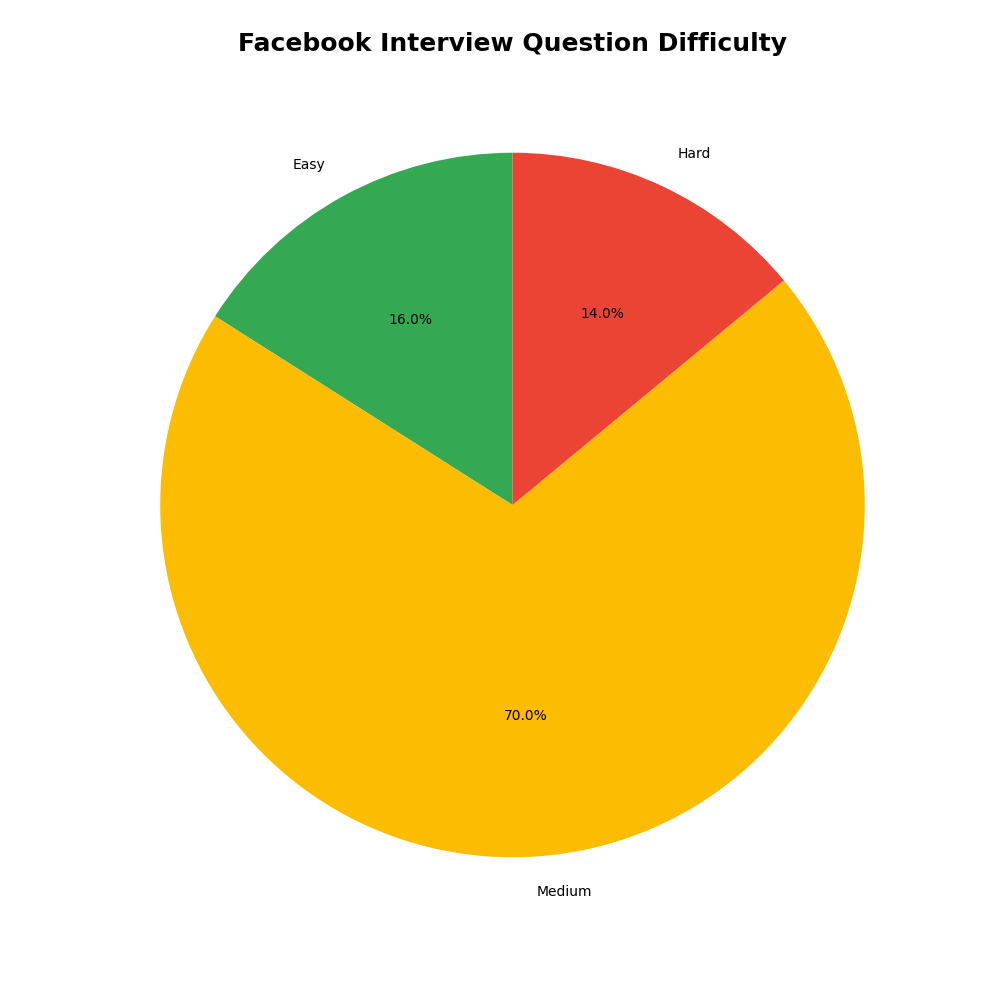
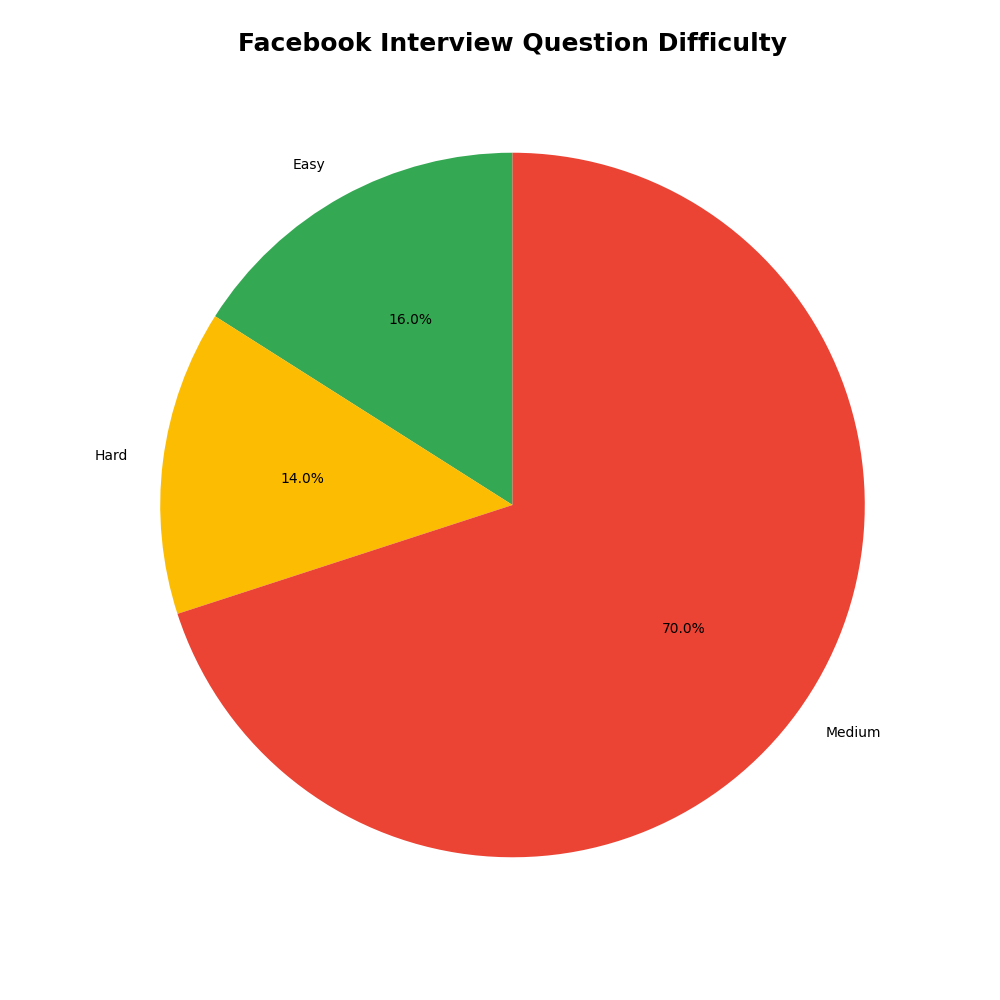
yaml format complete

diff --git a/script.py b/script.py
@@ -1,49 +1,40 @@
 import pandas as pd
 import matplotlib.pyplot as plt
 import numpy as np
+import re
 import yaml as yaml
 import openai
 from dotenv import dotenv_values
+from unicodedata import normalize
 import os
 from openai import OpenAI
 
-company = "Facebook"
-excelfile = f"./excel sheets/{company}_questions.xlsx"
+# yaml config
+def load_config(config_path):
+    with open(config_path, 'r') as file:
+        config = yaml.safe_load(file)
+    return config
+
+def replace_placeholders(config, placeholders):
+    config_str = yaml.dump(config)
+    for key, value in placeholders.items():
+        config_str = re.sub(r'\$\{' + key + r'\}', value, config_str)
+    return yaml.safe_load(config_str)
+
+config_path = './config.yaml'  # Update this path as needed
+yaml_config = load_config(config_path)
+
+placeholders = {'company': yaml_config['company']}
+
+yaml_config = replace_placeholders(yaml_config, placeholders)
+
+company = yaml_config["company"]
+excelfile = yaml_config["directories"]["excel_file"]
+
 df = pd.read_excel(excelfile)
 
-patterns = {
-    "Dynamic Programming": 0,
-    "Depth-First Search": 0,
-    "Breadth-First Search": 0,
-    "Two Pointers": 0,
-    "Trie": 0,
-    "Tree": 0,
-    "Simulation": 0,
-    "Design": 0,
-    "Greedy": 0,
-    "Graph": 0,
-    "Bit Manipulation": 0,
-    "Math": 0,
-    "Matrix": 0,
-    "Heap": 0,
-    "Stack": 0,
-    "Backtracking": 0,
-    "Binary Search": 0,
-    "Sliding Window": 0,
-    "Basic Programming": 0,
-    "Hash Function": 0,
-    "Linked List": 0,
-    "Database": 0,
-    "Union Find": 0,
-    "Adv. Data Structure": 0,
-    "Recursion": 0,
-    "Divide and Conquer": 0,
-}   
-difficulty = {
-    "Easy": 0,
-    "Medium": 0,
-    "Hard": 0,
-}
+patterns = yaml_config["patterns"]
+difficulty = yaml_config["difficulty"]
 
 # topics that are mutually exclusive with "basic programming" pattern
 not_basics = ["Dynamic Programming", "Depth-First Search", "Breadth-First Search", "Trie", "Simulation", "Graph", "Recursion"]
@@ -73,7 +64,7 @@ def generate_charts():
             angle = np.rad2deg(np.arctan2(y, x))
             horizontalalignment = {-1: "right", 1: "left"}[int(np.sign(x))]
             connectionstyle = f"angle,angleA=0,angleB={angle}"
-            ax.annotate(text, xy=(x, y), xytext=(1.25*np.sign(x), 1.2*y),
+            ax.annotate(text, xy=(x, y), xytext=(1.2*np.sign(x), 1.2*y),
                         horizontalalignment=horizontalalignment,
                         arrowprops=dict(arrowstyle="-", connectionstyle=connectionstyle),
                         )
@@ -97,20 +88,20 @@ def generate_charts():
 
         # Title and show
         chartname = f"{company} Interview Pattern Distribution"
-        filename = f"./charts/{company}_pattern_chart.png"
+        filename = yaml_config["directories"]["pattern_chart"]
 
         plt.title(chartname, weight="bold", fontsize=18, pad=50)
         plt.savefig(filename)
 
     def plot_difficulty(difficulty):
-        colors = ['#34a853', '#fbbc02', '#eb4334']
+        colors = ['#34a853','#eb4334', '#fbbc02']
 
         fig, ax = plt.subplots(figsize=(10, 10))
         ax.pie(difficulty.values(), labels=difficulty.keys(), autopct='%1.1f%%', startangle=90, colors=colors)
         ax.axis('equal')  # Equal aspect ratio ensures that pie is drawn as a circle.
 
         chartname = f"{company} Interview Question Difficulty"
-        filename = f"./charts/{company}_difficulty_chart.png"
+        filename = yaml_config["directories"]["difficulty_chart"]
 
         plt.title(chartname, weight="bold", fontsize=18, pad=50)
         plt.savefig(filename)
@@ -119,7 +110,7 @@ def generate_charts():
     for index, row in df.iterrows():
         patterns_string = str(row.iloc[2])
         difficulty_string = str(row.iloc[4])
-        problem_id = str(row.iloc[0])
+        problem_id = int(row.iloc[0])
 
         idlist.append(problem_id)
 
@@ -155,33 +146,56 @@ def generate_charts():
 def main():
     generate_charts()
 
-    #config
+    #OpenAI config
     client = OpenAI()
     config = dotenv_values(".env")
     client.api_key = config["OPENAI_API_KEY"]
 
     new_patterns = {k: v for k, v in patterns.items() if v > 0}
+    res = ""
 
-    # roles: system, user, assistant
-    # system - sets the behavior of the assistant
-    # user - provides requests or comments for the assistant to respond to
-    # assistant - stores previous assistant responses
+    data = {
+        "title": f"{company} Interview Patterns",
+        "questions": idlist,
+        "pattern": {
+            "pattern_chart": "",
+            "difficulty_chart": "",
+            "summary": (
+                ""
+            ),
+        }
+    }
+
+    # prompt
     messages = [
-        {"role": "system", "content": "You need to write a technical interview guide for a specific company. The position is for software engineering and the problems are leetcode-style coding challenges with patterns like dfs/bfs, two pointers, dynamic programming, etc. user provdes the pattern distribution data and you need to write 1-3 paragraphs about the trends and difficulty level (briefly) and how to prepare by identifying common patterns and listing some leetcode problems. do not output the distribution data. output in yaml format ready to be exported. provide good examples of questions and hyperlink them in lists, pipe symbol to separate paragraphs."},
-        {"role": "user", "content": f"please write a technical interview guide for {company}. here is the pattern distrbution for the interview: {str(new_patterns)}. do not mention the problem frequency counts."}
+        {"role": "system", "content": "You need to write a technical interview guide for a specific company. The position is for software engineering and the problems are leetcode-style coding challenges with patterns like dfs/bfs, two pointers, dynamic programming, etc. user provdes the pattern distribution data and you need to write 1-3 paragraphs about the trends and briefly the difficulty level, and how to prepare by identifying common patterns and listing some leetcode problems. do not output the distribution data."},
+        {"role": "user", "content": f"please write a technical interview guide for {company}. here is the pattern distrbution for the interview: {str(new_patterns)}. do not mention the problem frequency counts. provide 2-3 paragraphs each separated by two newlines. provde problem list hyperlinked separated by newlines after the paragraphs. hyper links should be like this: '- [Minimum Number of Keypresses (Sorting + Greedy)](https://algo.monster/liteproblems/2268)\\n' where the link is to algo.monster/liteproblems followed by leetcode problem ID number. the returned response should just be first paragraph\\n\\nsecondparagraph\\n\\n- [list item1](https://)\\n- [list item2](https://)\\n). "}
     ]
-
     completion = client.chat.completions.create(
         model="gpt-4",
         max_tokens=2048,
         messages=messages
     )
+    res = completion.choices[0].message.content
+    res.replace(":", "")
+    res.replace('\\n', '\n')
+    res = re.sub(r'[ \t]+\n', '\n', res)
+    
+    data["pattern"]["summary"] = res
 
-    print(completion.choices[0].message.content)
+    # Custom representer to format the output into desired yaml
+    def str_presenter(dumper, data):
+        if '\n' in data:
+            return dumper.represent_scalar('tag:yaml.org,2002:str', data, style='|')
+        return dumper.represent_scalar('tag:yaml.org,2002:str', data)
+    def sequence_presenter(dumper, data):
+        return dumper.represent_sequence('tag:yaml.org,2002:seq', data, flow_style=True)
 
-    file_path = 'interview_preparation_guide.yaml'
-    with open(file_path, 'w') as file:
-        file.write(completion.choices[0].message.content.strip())
+    yaml.add_representer(str, str_presenter, Dumper=yaml.SafeDumper)
+    yaml.add_representer(list, sequence_presenter, Dumper=yaml.SafeDumper)
+
+    # Write the data to a YAML file
+    with open(f"{company}.yaml", "w") as file:
+        yaml.dump(data, file, default_flow_style=False, sort_keys=False, Dumper=yaml.SafeDumper, width=4096)
 
 main()
-

diff --git a/test.py b/test.py
@@ -1,0 +1,34 @@
+import pandas as pd
+import matplotlib.pyplot as plt
+import numpy as np
+import re
+import yaml as yaml
+import openai
+from dotenv import dotenv_values
+import os
+from openai import OpenAI
+
+data = {
+    "pattern": {
+        "pattern_chart": "",
+        "difficulty_chart": "",
+        "summary": (
+        ),
+    }
+}
+data["pattern"]["summary"] = "The Snowflake technical interview process leans heavily on data structures and algorithms, with a particular emphasis on dynamic programming, breadth-first and depth-first searches. The problems tend to be moderately challenging, with a fair mixture of intermediate to more advanced problems. Many of these problems would fall into the Leetcode medium to hard categories. It's also worth noting that many of the problems seem to involve graphs and trees, which suggests that applicants need to be comfortable with solving real-world problems involving these structures.\n\nIn preparing for the technical interview, it's crucial to understand and recognize common coding patterns such as backtracking, binary search, design patterns, graph theory, and basic math problems. Remember, the majority of these problems are not 'trick' problems - they're meant to assess your problem-solving skills, your understanding of algorithms and data structures, and your ability to write clean, efficient code. Therefore, practicing is essential. Leetcode has a large set of problems you can use for practice, and recognizing patterns in these problems will greatly benefit you in the technical interview."
+def str_presenter(dumper, data):
+    if '\n' in data:
+        return dumper.represent_scalar('tag:yaml.org,2002:str', data, style='|')
+    return dumper.represent_scalar('tag:yaml.org,2002:str', data)
+
+def sequence_presenter(dumper, data):
+    return dumper.represent_sequence('tag:yaml.org,2002:seq', data, flow_style=True)
+
+yaml.add_representer(str, str_presenter, Dumper=yaml.SafeDumper)
+yaml.add_representer(list, sequence_presenter, Dumper=yaml.SafeDumper)
+
+# Write the data to a YAML file
+with open(f"testing.yaml", "w") as file:
+    yaml.dump(data, file, default_flow_style=False, sort_keys=False, Dumper=yaml.SafeDumper, width=4096)
+
